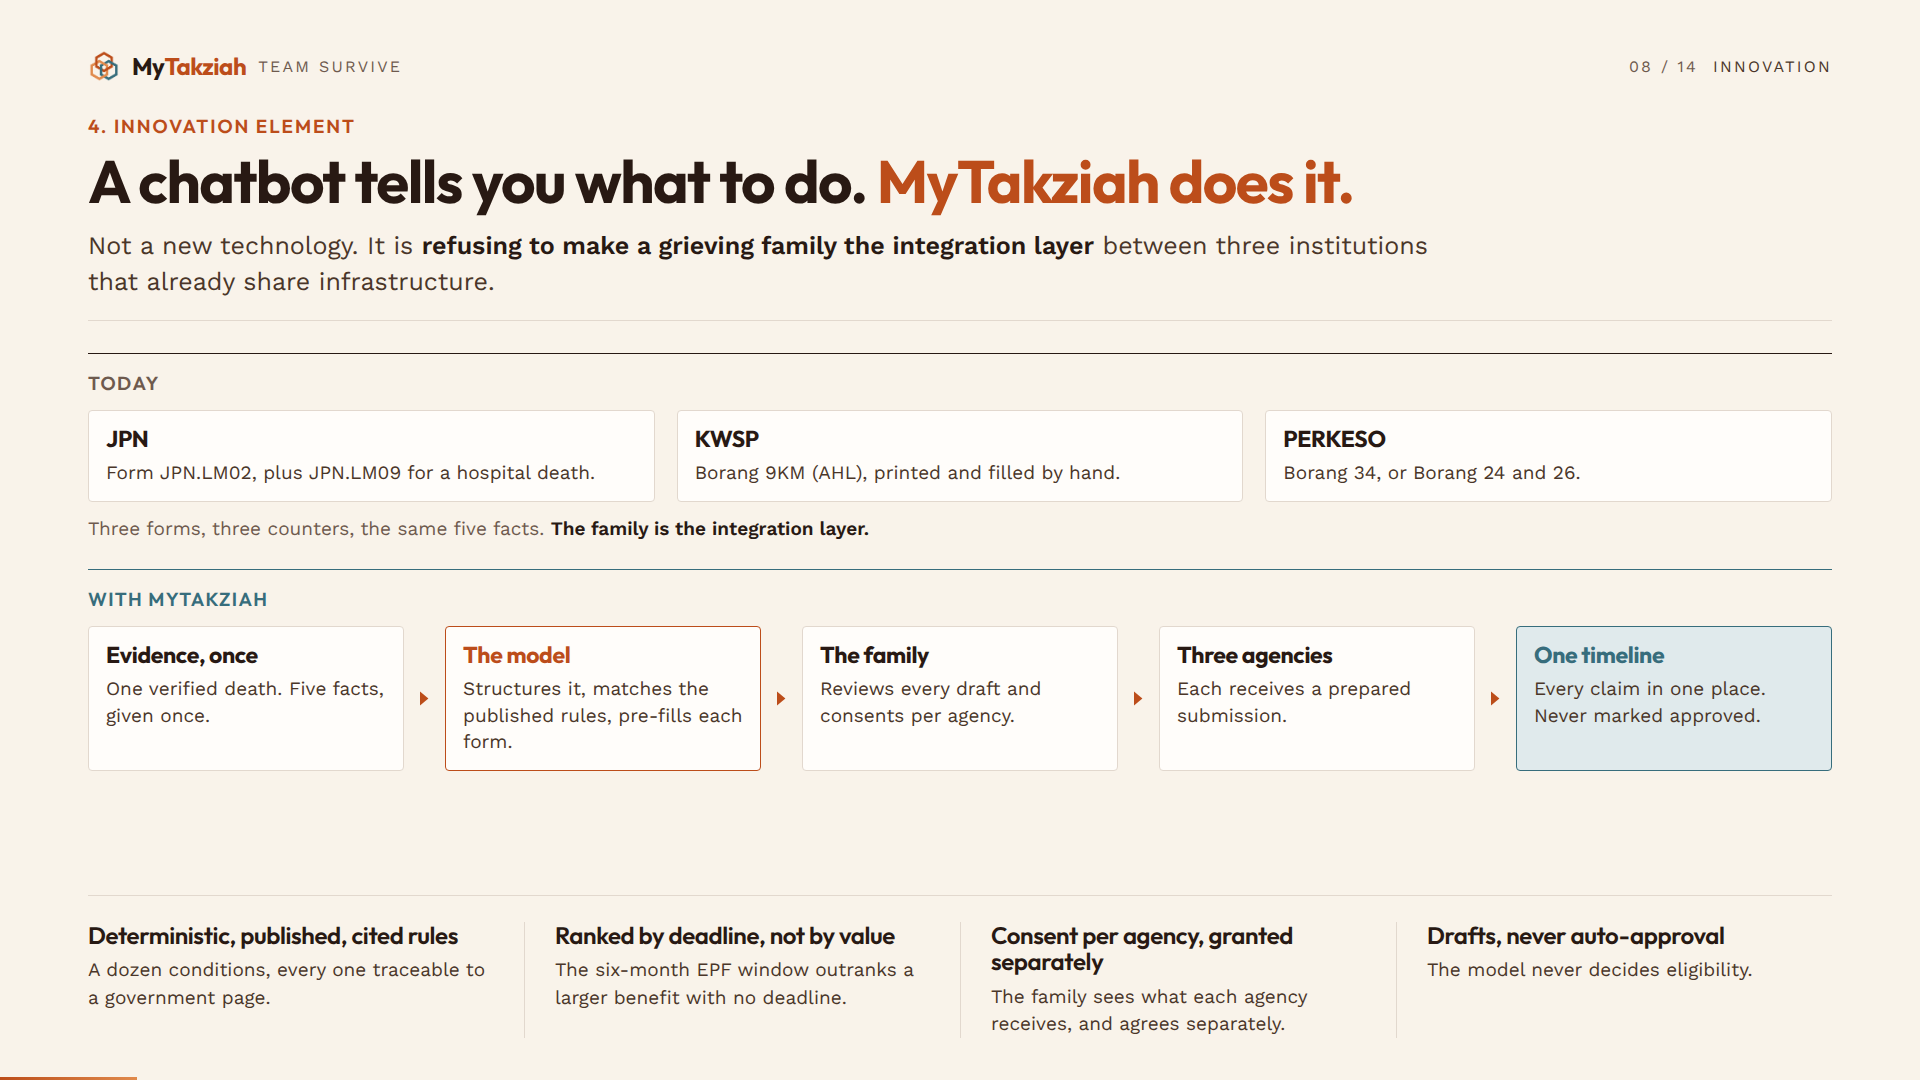
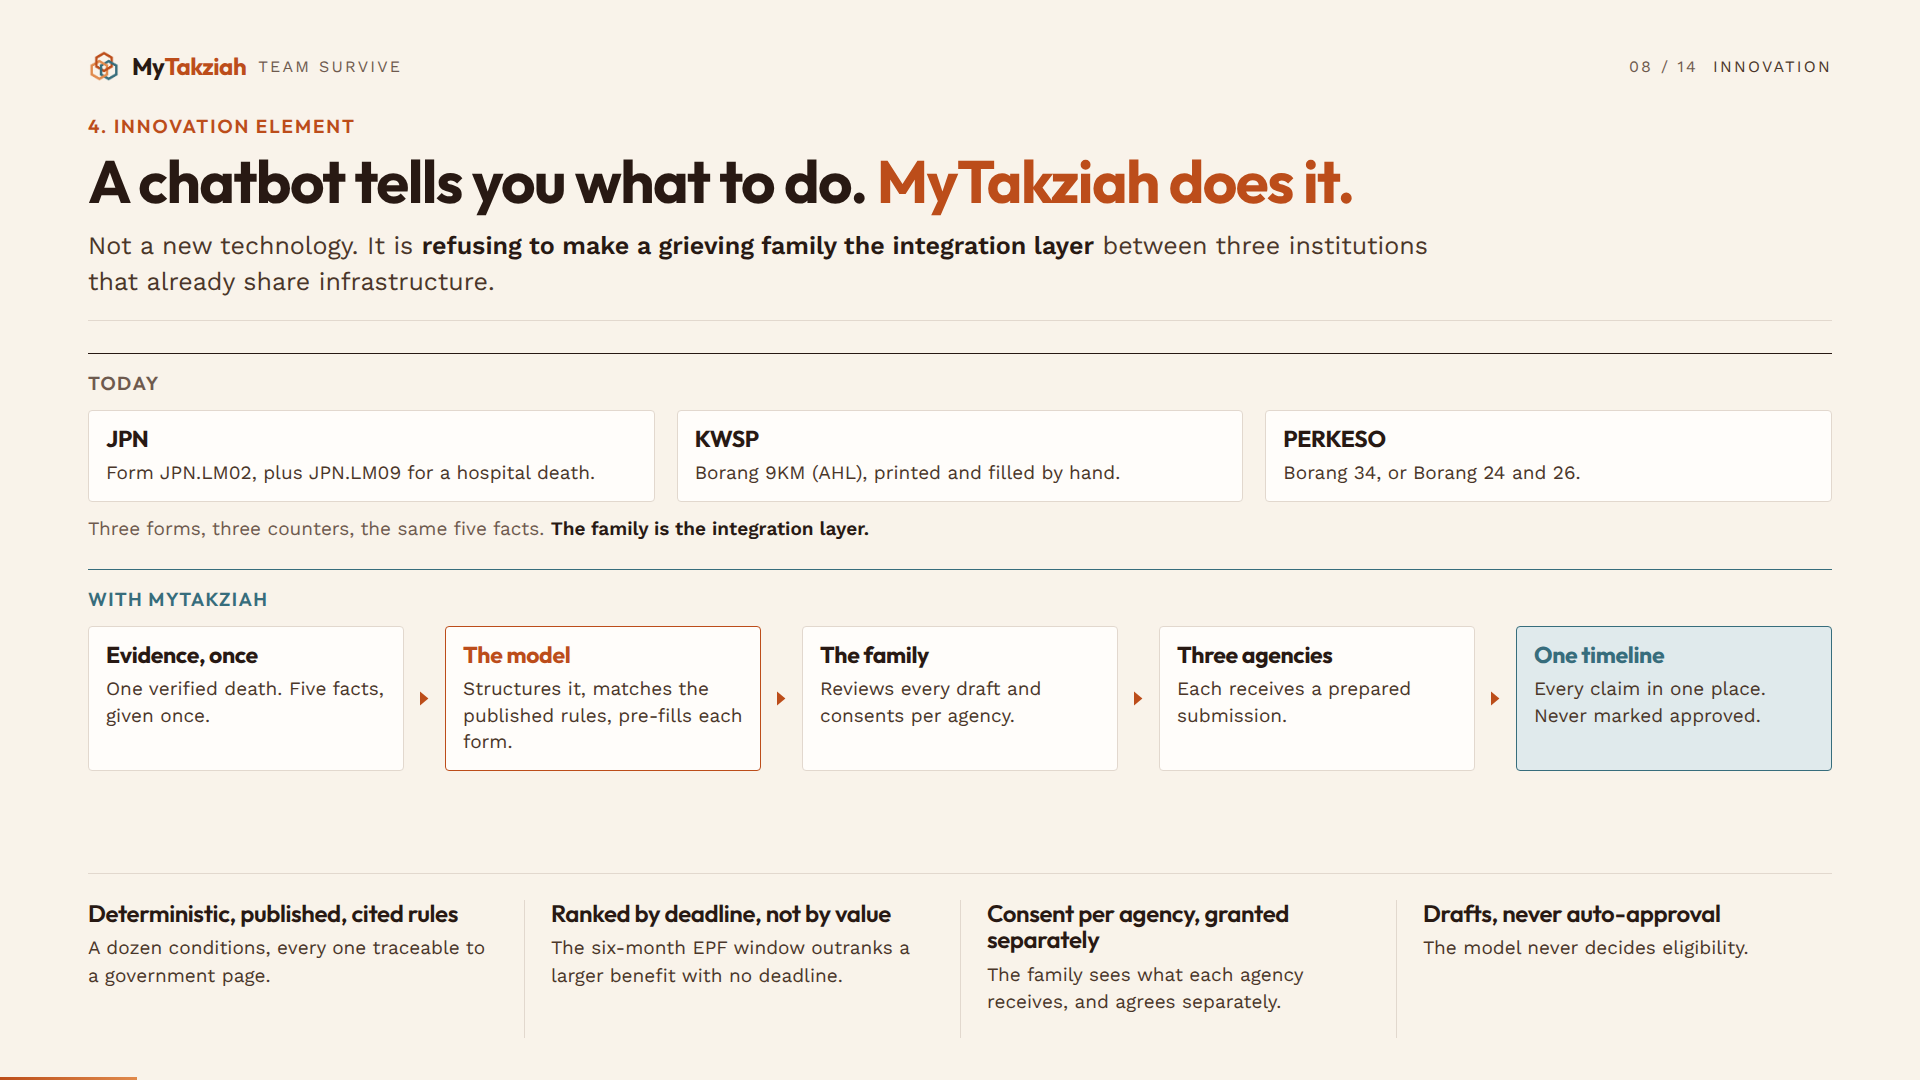
docs(deck): take the challenges slide to eight questions and answers
Slide 9 goes from four challenges to eight, in a four by two grid with hairline
dividers that know where a row starts. Every answer is one or two short
sentences, and each carries a glyph.

The four new ones cover what the deck could not previously answer: whether the
agency APIs exist, why the scope is three agencies, who sees the family's data,
and what happens to Sabah and Sarawak. Each answer is already recorded in
decisions.md or the research, so nothing new is claimed.

The standfirst no longer addresses a judge.

Claude-Session: https://claude.ai/code/session_01PPdZ8KP53pwARHyA7kzdAD

diff --git a/docs/submission/deck/mytakziah-deck.html b/docs/submission/deck/mytakziah-deck.html
@@ -899,7 +899,7 @@
       <!-- ===================== 09 FOUR CHALLENGES ===================== -->
       <section
         class="slide"
-        data-label="09 Four challenges"
+        data-label="09 Eight challenges"
         data-speaker-notes="These are the four questions a judge should ask. Every member can answer all four from memory. If the room asks one of them, you have already won that exchange."
       >
         <div class="pad">
@@ -914,9 +914,9 @@
 
           <div class="head">
             <div class="eyebrow">4. Innovation Element</div>
-            <h2 class="title">Four fair challenges, <em>four answers.</em></h2>
+            <h2 class="title">Eight fair challenges, <em>eight answers.</em></h2>
             <p class="standfirst">
-              The four questions a judge will ask, and the answers every member can give from memory.
+              The eight hardest questions about this concept, and the answers every member can give from memory.
             </p>
           </div>
 
@@ -927,32 +927,42 @@
               <div class="ch-col">
                 <svg class="gl" viewBox="0 0 30 30" aria-hidden="true"><path d="M4 7a2 2 0 0 1 2-2h18a2 2 0 0 1 2 2v11a2 2 0 0 1-2 2H12l-6 5v-5H6a2 2 0 0 1-2-2z"/></svg>
                 <div class="ch-q">Is this not the MyGOV chatbot?</div>
-                <p class="cp">
-                  JPN has already built that chatbot, with a death module. It still cannot tell KWSP anything.
-                </p>
+                <p class="cp">JPN already built it, with a death module. It still cannot tell KWSP anything.</p>
               </div>
               <div class="ch-col">
                 <svg class="gl" viewBox="0 0 30 30" aria-hidden="true"><path d="M15 4 27 25H3z"/><path d="M15 12v6"/><path d="M15 21.4v.2"/></svg>
                 <div class="ch-q">What if the AI gets it wrong?</div>
-                <p class="cp">
-                  It drafts and cites; it never decides. The agency approves. Being wrong costs a correction, not a
-                  family's money.
-                </p>
+                <p class="cp">It drafts and cites. It never decides. A mistake costs a correction, not money.</p>
               </div>
               <div class="ch-col">
                 <svg class="gl" viewBox="0 0 30 30" aria-hidden="true"><rect x="3" y="6" width="24" height="18" rx="2"/><circle cx="10.5" cy="13" r="3"/><path d="M6 20c1-2.4 2.6-3.6 4.5-3.6S14 17.6 15 20"/><path d="M19 12h5M19 16h5"/></svg>
                 <div class="ch-q">Does MyDigital ID not do this?</div>
-                <p class="cp">
-                  The Minister calls it purely verification. It proves who you are; it carries nothing between
-                  agencies.
-                </p>
+                <p class="cp">It proves who you are. It carries nothing between agencies.</p>
               </div>
               <div class="ch-col">
                 <svg class="gl" viewBox="0 0 30 30" aria-hidden="true"><path d="M3 11 15 4l12 7"/><path d="M6 11v13h18V11"/><path d="M10 24v-6h10v6"/></svg>
                 <div class="ch-q">Are they not all at UTC already?</div>
-                <p class="cp">
-                  Twelve cities, against 199,000 deaths a year. At UTC Perak you still queue three times.
-                </p>
+                <p class="cp">Twelve cities, 199,000 deaths a year. At UTC Perak you still queue three times.</p>
+              </div>
+              <div class="ch-col">
+                <svg class="gl" viewBox="0 0 30 30" aria-hidden="true"><path d="M11 4v7M19 4v7"/><path d="M7 11h16v4a8 8 0 0 1-16 0z"/><path d="M15 23v4"/></svg>
+                <div class="ch-q">Do the agency APIs exist?</div>
+                <p class="cp">We found none published. That is exactly why version one needs none.</p>
+              </div>
+              <div class="ch-col">
+                <svg class="gl" viewBox="0 0 30 30" aria-hidden="true"><circle cx="8" cy="9" r="4"/><circle cx="22" cy="9" r="4"/><circle cx="15" cy="22" r="4"/><path d="M11.4 11.2 12.9 18M18.6 11.2 17.1 18M12 9h6"/></svg>
+                <div class="ch-q">Why only three agencies?</div>
+                <p class="cp">All federal, all with published forms. Tabung Haji, ASB and JKM come later.</p>
+              </div>
+              <div class="ch-col">
+                <svg class="gl" viewBox="0 0 30 30" aria-hidden="true"><rect x="6" y="13" width="18" height="13" rx="2"/><path d="M10.5 13V9.5a4.5 4.5 0 0 1 9 0V13"/><path d="M15 18v3"/></svg>
+                <div class="ch-q">Who sees the family's data?</div>
+                <p class="cp">Each agency sees only what it needs, and only once the family agrees to that agency.</p>
+              </div>
+              <div class="ch-col">
+                <svg class="gl" viewBox="0 0 30 30" aria-hidden="true"><path d="M4 7l7-3 8 3 7-3v19l-7 3-8-3-7 3z"/><path d="M11 4v19M19 7v19"/></svg>
+                <div class="ch-q">What about Sabah and Sarawak?</div>
+                <p class="cp">Their registration differs. Version one is Peninsular. They are phase two.</p>
               </div>
             </div>
 

diff --git a/docs/submission/deck/assets/deck.css b/docs/submission/deck/assets/deck.css
@@ -1424,16 +1424,27 @@ body.show-notes #notes {
   align-content: start;
 }
 .challenges .ch-col {
-  padding: 0 30px 0 0;
+  padding: 0 26px 22px 26px;
 }
-.challenges .ch-col + .ch-col {
-  padding-left: 30px;
+/* Four to a row, two rows. The dividers have to know where a row starts, so the
+   left rule skips the first column and the top rule skips the first row. */
+.challenges .ch-col:nth-child(4n + 1) {
+  padding-left: 0;
+}
+.challenges .ch-col:not(:nth-child(4n + 1)) {
   border-left: 1px solid var(--border);
+}
+.challenges .ch-col:nth-child(4n) {
+  padding-right: 0;
+}
+.challenges .ch-col:nth-child(n + 5) {
+  padding-top: 22px;
+  border-top: 1px solid var(--border);
 }
 .challenges .ch-q {
   font-family: var(--font-display);
   font-weight: 700;
-  font-size: 28px;
+  font-size: 24px;
   line-height: 1.12;
   letter-spacing: -0.018em;
   color: var(--accent);
